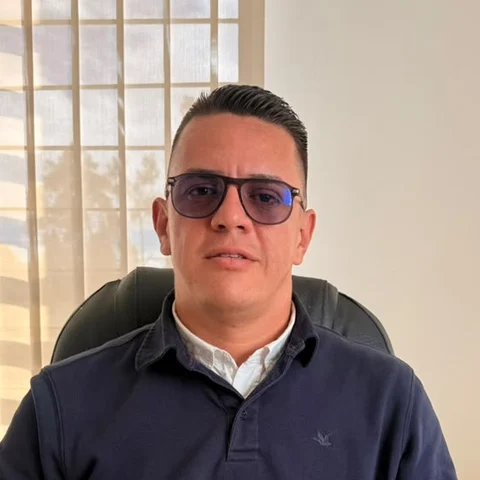
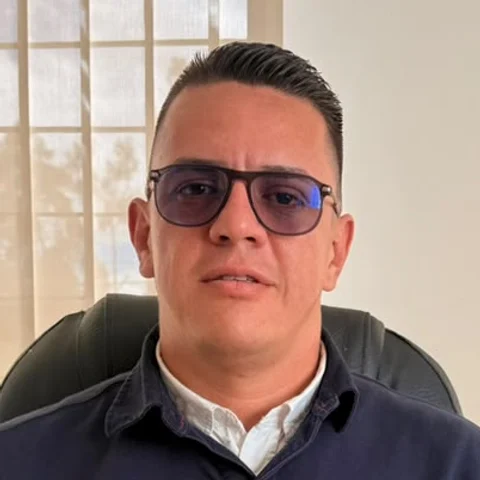
feat: el equipo directivo pasa a cinco con foto y caras mas grandes
Nelson Arias, Julian Mejia y Alvaro Arias estrenan foto, y ya no queda
ninguna tarjeta con iniciales. El Lider Logistico tiene nombre, asi que
desaparece el «Proximamente». Alvaro Arias entra con el cargo «Gerencia
Estrategica», en segundo lugar tras el Gerente General.

El recorte se cierra: la cabeza pasa del 40 % al 58 % del lado del cuadrado,
con los ojos siempre al 40 % de la altura. En el circulo de 112 px las caras
se veian pequenas; ahora es un retrato de hombros para arriba. Las cinco
fotos se regeneran desde los originales para que sigan leyendose como un
juego.

scripts/recortar-fotos-equipo.mjs deja de guardar numeros de recorte fijos
por persona. Guarda las medidas de cada cara (coronilla, menton, ojos y eje)
y calcula el cuadrado con PROPORCION_CABEZA y ALTURA_OJOS, asi que otro
encuadre es cambiar una constante. Tambien falla si una foto queda con menos
de un 5 % libre sobre la cabeza; se comprobo que con la cabeza al 70 %
rechaza las de Camilo y Erica. Los tres originales nuevos quedan en
recursos/fotos-equipo/, fuera del repositorio como los anteriores.

Cinco tarjetas no caben en fila: a 1440 px medirian 204 px y los cargos se
partirian en dos lineas. La rejilla pasa a 3+2 en escritorio, 2+2+1 en
tablet y una columna en movil, con la fila incompleta centrada y todas las
filas a la misma altura (grid-auto-rows: 1fr). Se midio en 10 anchos, del
375 al 1440 y en los bordes de cada salto: mismo ancho y alto en las cinco
tarjetas, filas centradas y sin desborde.

diff --git a/src/data/equipo.ts b/src/data/equipo.ts
@@ -1,31 +1,30 @@
 /**
  * Equipo directivo que se muestra en /nosotros/.
  *
- * Los nombres y cargos de abajo son los reales. Quedan pendientes las fotos de
- * Nelson Arias y del Líder Logístico, y el nombre de quien ocupa ese último
- * cargo, que todavía no está definido.
+ * Los nombres, cargos y fotos de abajo son los reales. El orden del arreglo es
+ * el de las tarjetas en la página.
  *
  * FOTOS
  * -----
  * Cada foto se nombra por la PERSONA, no por el cargo ('erica-abril.webp' y no
  * 'talento-humano.webp'): los cargos se renombran cada tanto y arrastraban con
- * ellos el nombre del archivo. La excepción es el Líder Logístico, que se queda
- * con el nombre del cargo porque todavía no se sabe quién lo ocupa.
+ * ellos el nombre del archivo.
  *
- * Mientras el archivo no exista se dibuja un marcador con las iniciales de la
- * persona, así que la sección nunca se ve rota (ver `imagenOMarcador` en
- * src/lib/imagenes.ts) y las fotos se pueden ir poniendo de una en una.
+ * Si alguien entra sin foto, basta con dejar su ruta apuntando al archivo que
+ * tendrá: mientras no exista se dibuja un marcador con sus iniciales, así que
+ * la sección nunca se ve rota (ver `imagenOMarcador` en src/lib/imagenes.ts).
  *
  * La foto tiene que ser CUADRADA, porque la tarjeta la recorta en círculo. Las
  * que llegan del celular son verticales, así que no se suben tal cual: pasan
  * por `npm run fotos:equipo` (scripts/recortar-fotos-equipo.mjs), que recorta
- * el cuadrado centrado en la cara, lo deja en 480x480 WebP y le quita los
- * metadatos EXIF. Los originales sin recortar NO van al repositorio —son fotos
- * del personal—: viven en `recursos/fotos-equipo/`, que .gitignore excluye.
+ * un retrato de hombros para arriba con la cara del mismo tamaño en todas, lo
+ * deja en 480x480 WebP y le quita los metadatos EXIF. Los originales sin
+ * recortar NO van al repositorio —son fotos del personal—: viven en
+ * `recursos/fotos-equipo/`, que .gitignore excluye.
  *
  * FRASES
  * ------
- * Las cuatro están vacías a propósito y quedan PENDIENTES de que cada persona
+ * Las cinco están vacías a propósito y quedan PENDIENTES de que cada persona
  * aporte la suya. Antes había frases de ejemplo, pero al poner los nombres
  * reales pasaban a leerse como citas textuales de gente que nunca las dijo.
  * La tarjeta no dibuja nada cuando la frase está vacía, así que se pueden ir
@@ -46,8 +45,13 @@ export const equipo: Persona[] = [
   {
     nombre: 'Nelson Arias',
     cargo: 'Gerente General',
-    // PENDIENTE: falta la foto. Hasta que esté, la tarjeta muestra 'NA'.
-    foto: '/img/equipo/nelson-arias.jpg',
+    foto: '/img/equipo/nelson-arias.webp',
+    frase: '',
+  },
+  {
+    nombre: 'Álvaro Arias',
+    cargo: 'Gerencia Estratégica',
+    foto: '/img/equipo/alvaro-arias.webp',
     frase: '',
   },
   {
@@ -63,12 +67,9 @@ export const equipo: Persona[] = [
     frase: '',
   },
   {
-    // PENDIENTE: falta definir quién ocupa este cargo. Mientras `nombre` esté
-    // vacío la tarjeta muestra «Próximamente» y el avatar lleva las iniciales
-    // del cargo. Al saberlo, basta con escribir el nombre aquí.
-    nombre: '',
+    nombre: 'Julián Mejía',
     cargo: 'Líder Logístico',
-    foto: '/img/equipo/lider-logistico.jpg',
+    foto: '/img/equipo/julian-mejia.webp',
     frase: '',
   },
 ];
